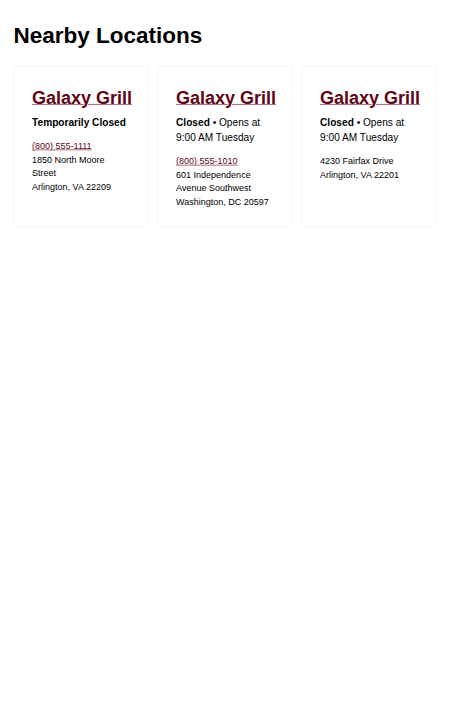
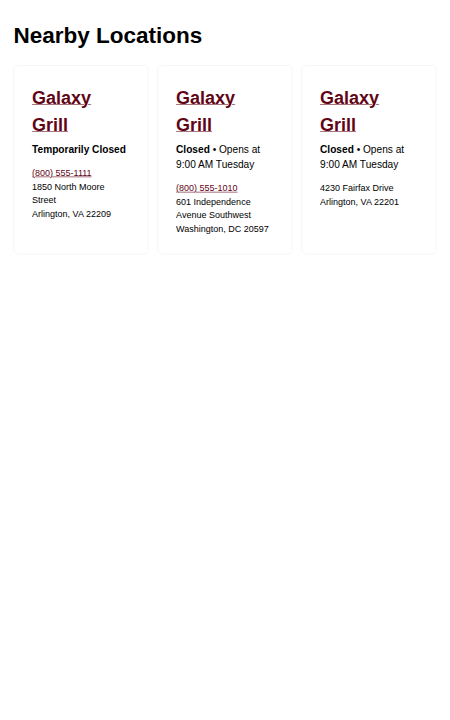
fix: wrap nearby location link (#941)
<img width="1046" height="361" alt="Screenshot 2025-12-10 at 4 39 33 PM"
src="https://github.com/user-attachments/assets/0f8cddf1-a64e-4a29-bfef-156c049bcf24"
/>

---------

Changed region(s): [[0.3733, 0.1222, 0.6222, 0.3361], [0.0622, 0.1222, 0.3111, 0.3056], [0.7156, 0.1222, 0.9333, 0.3056]]

diff --git a/packages/visual-editor/src/components/pageSections/NearbyLocations/NearbyLocationCard.tsx b/packages/visual-editor/src/components/pageSections/NearbyLocations/NearbyLocationCard.tsx
@@ -71,7 +71,7 @@ export const NearbyLocationCard: React.FC<NearbyLocationCardProps> = (
       <MaybeLink
         eventName={`link${cardNumber}`}
         alwaysHideCaret={true}
-        className="mb-2"
+        className="mb-2 line-clamp-2 text-wrap break-words w-full"
         href={resolvedUrl}
       >
         <Heading
